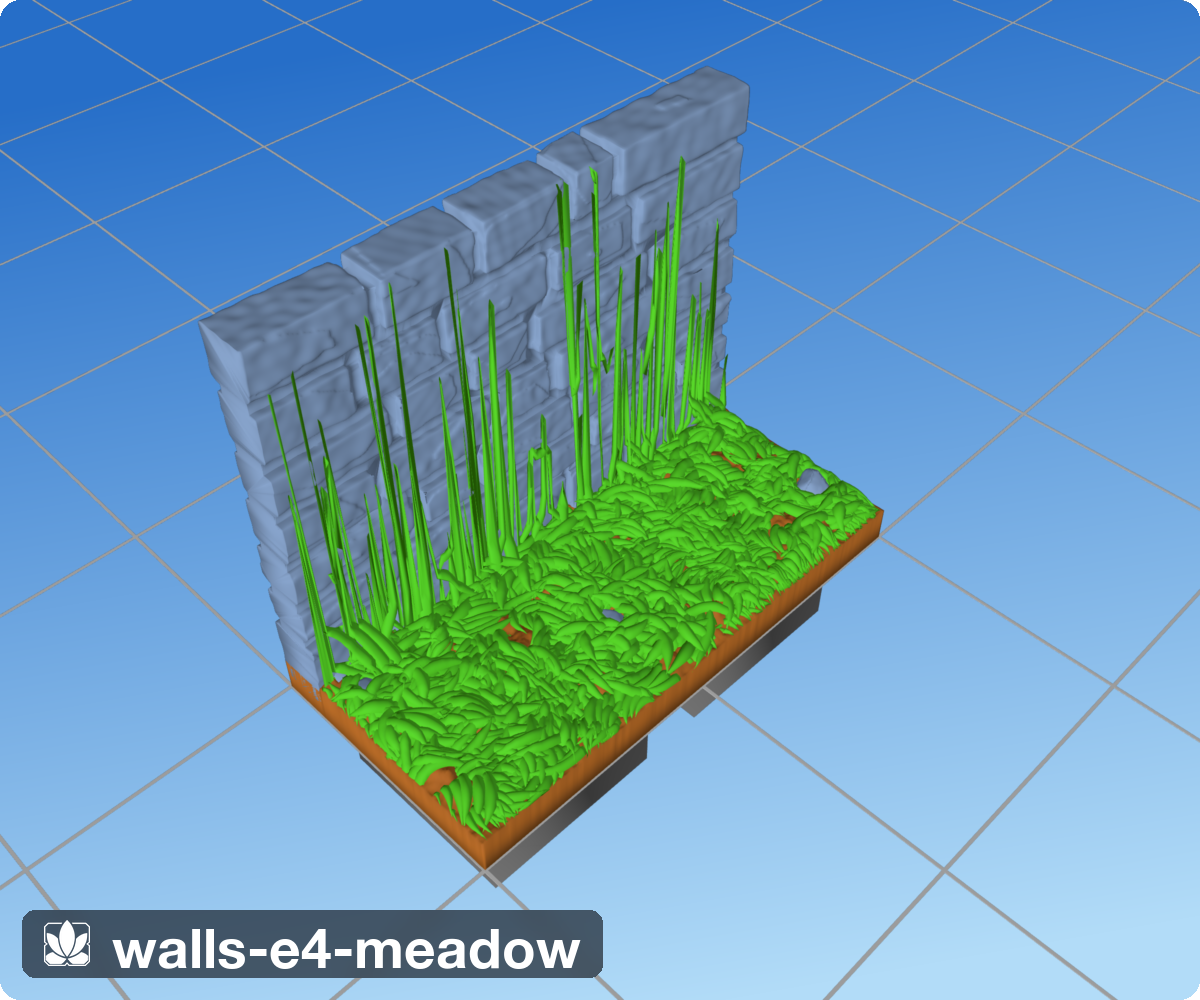
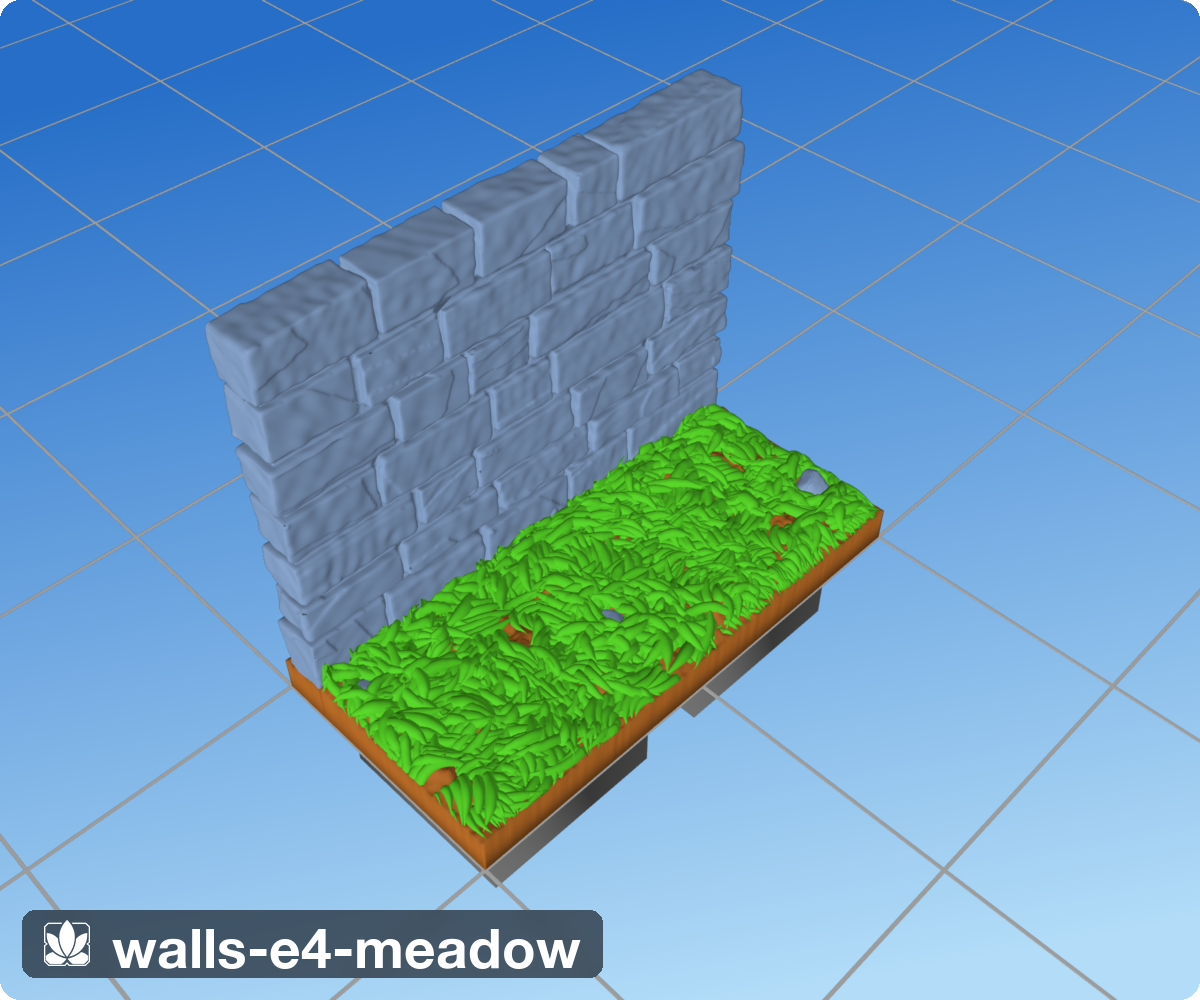
Walls round 2: Shawn's five fixes + texture presets
- Ends always textured: flush plane-cut machinery deleted; wall ends
  show block ends with the mortar core inset, at tile seams too (butt
  join = sculpted ends butting, like the commercial pieces)
- Grass wall cap: _CLIFF_CLAMP_MM in thatch.py — solid support taller
  than 4mm above substrate is cliff-class; drape surface, lift floor,
  and vegetation rebase all see at most the clamp, so blades lean a few
  mm up the wall base instead of shooting up the face (was ~45mm spikes)
- Nearly-touching bricks: joint_mm 1.2 -> 0.45
- Mid-face plateau killed by construction: face-centre hull points
  pulled in ~0.5x chip (full-extent centres made a proud plateau in the
  middle of every face/top -- Shawn's circled artifact)
- Texture presets: chipped / worn / hewn / dressed on CutStoneWall
  (texture=...), plus walls-e5-textures comparison scene and labeled
  render docs/walls/renders/walls-texture-options.png

Claude-Session: https://claude.ai/code/session_01N52X1qVoRMnzi1jxnvUHEL

diff --git a/src/dharmatiles/walls/masonry.py b/src/dharmatiles/walls/masonry.py
@@ -42,13 +42,23 @@ _CHAMFER_FRAC     = 1.0    # bottom chamfer depth = reveal × this (R10: the
                            # block's proud lip never overhangs the joint below)
 _REMESH_SIGMA     = 0.7    # blur-remesh sigma: below the stones' 0.9 "fresh"
                            # setting so chip facets and chamfers stay crisp
-_RELIEF_WL_MM     = (1.5, 6.0)   # broadband relief wavelengths (log-uniform)
-_RELIEF_WAVES     = 24
+_RELIEF_WAVES     = 24     # broadband relief wave count; wavelengths come
+                           # from the texture preset
 _MIN_BAY_FRAC     = 0.45   # bays shorter than this × bay_min are merged away
 _SEAT_PERCENTILE  = 80.0   # seat height over the footprint (stones convention)
-_FLUSH_OVERSHOOT_MM = 0.8  # tile-boundary ends overshoot by this and are
-                           # plane-cut flush at the seam (butt-join, R8)
-_BOUNDARY_EPS_MM  = 0.05   # wall end counts as on-boundary within this
+
+# Texture presets: the surface character of the blocks.  Everything else
+# (layout, joints, core) is family-independent.
+_TEXTURES = {
+    'chipped': dict(chip_mm=0.55, roundover_mm=0.22, relief_mm=0.07,
+                    relief_wl=(1.5, 6.0)),   # Hirst-m50 chipped cut stone
+    'worn':    dict(chip_mm=0.30, roundover_mm=0.60, relief_mm=0.10,
+                    relief_wl=(2.5, 8.0)),   # soft weathered (m24 cryptstone)
+    'hewn':    dict(chip_mm=0.80, roundover_mm=0.15, relief_mm=0.16,
+                    relief_wl=(0.8, 3.0)),   # rough-hewn all-over (m40)
+    'dressed': dict(chip_mm=0.15, roundover_mm=0.12, relief_mm=0.03,
+                    relief_wl=(2.0, 7.0)),   # near-smooth ashlar, crisp arris
+}
 
 
 # ── Layout ────────────────────────────────────────────────────────────────────
@@ -94,19 +104,6 @@ def _segments(spine_mm: list[tuple[float, float]]) -> list[_Seg]:
     return segs
 
 
-def _end_on_tile_boundary(p: np.ndarray, out_dir: np.ndarray,
-                          surface) -> bool:
-    """True when the wall end plane at ``p`` (outward normal ``out_dir``)
-    coincides with a tile boundary plane — the seam of an adjacent tile."""
-    for axis, extent in ((0, surface.tile_w), (1, surface.tile_h)):
-        if abs(abs(out_dir[axis]) - 1.0) > 1e-3:
-            continue
-        if (abs(p[axis]) < _BOUNDARY_EPS_MM
-                or abs(p[axis] - extent) < _BOUNDARY_EPS_MM):
-            return True
-    return False
-
-
 def _course_heights(height_mm: float, lo: float, hi: float,
                     rng: np.random.Generator) -> np.ndarray:
     """Varied course heights that sum EXACTLY to height_mm (cap lands at H)."""
@@ -142,14 +139,13 @@ def _bay_cuts(t0: float, t1: float, lo: float, hi: float,
 
 def _layout(segs: list[_Seg], thickness_mm: float, height_mm: float,
             course_mm: tuple[float, float], bay_mm: tuple[float, float],
-            min_bond_mm: float, rng: np.random.Generator,
-            flush_start: bool = False, flush_end: bool = False,
-            ) -> list[_Cell]:
+            min_bond_mm: float, rng: np.random.Generator) -> list[_Cell]:
     """Courses × bays × quoin alternation → block cells (R5, R7).
 
-    ``flush_start`` / ``flush_end``: the wall end lies on a tile
-    boundary — blocks there overshoot and are plane-cut flush (R8)
-    instead of getting a textured end face.
+    Wall ends are always textured ('face'): visible block ends with the
+    mortar core inset behind them — including at tile boundaries, where
+    two wall tiles butt with their sculpted ends (R8, Shawn's round-2
+    call: "I should be able to see the ends of the bricks").
     """
     T = thickness_mm
     heights = _course_heights(height_mm, *course_mm, rng)
@@ -175,18 +171,12 @@ def _layout(segs: list[_Seg], thickness_mm: float, height_mm: float,
             prev_cuts[k] = cuts
             edges = np.concatenate([[t0], cuts, [t1]])
             for b, (ta, tb) in enumerate(zip(edges[:-1], edges[1:])):
-                if ta > t0 or (k > 0 and not owns_start):
-                    end0 = 'joint'
-                else:
-                    end0 = 'flush' if (k == 0 and flush_start) else 'face'
-                if tb < t1 or (k < n_joints and not owns_end):
-                    end1 = 'joint'
-                else:
-                    end1 = ('flush' if (k == n_joints and flush_end)
-                            else 'face')
                 cells.append(_Cell(
                     seg=k, t0=float(ta), t1=float(tb),
-                    end0=end0, end1=end1,
+                    end0='joint' if ta > t0 or (k > 0 and not owns_start)
+                         else 'face',
+                    end1='joint' if tb < t1 or (k < n_joints and not owns_end)
+                         else 'face',
                     z0=float(z0), z1=float(z1),
                     is_top=is_top, is_bottom=is_bottom,
                     key=(c, k, b),
@@ -198,6 +188,7 @@ def _layout(segs: list[_Seg], thickness_mm: float, height_mm: float,
 
 def _block_mesh(lx: float, ly: float, lz: float, chamfer: float,
                 chip_mm: float, roundover_mm: float, relief_mm: float,
+                relief_wl: tuple[float, float],
                 is_top: bool, rng: np.random.Generator) -> trimesh.Trimesh:
     """One block in local frame [0,lx]×[0,ly]×[0,lz] (x along run, y = depth).
 
@@ -222,11 +213,20 @@ def _block_mesh(lx: float, ly: float, lz: float, chamfer: float,
     _ring(rng.uniform(0.6, 1.0) * ch, 0.0, chip_mm)             # chamfer ring
     if ch > 0.0:
         _ring(0.0, ch, 0.4 * chip_mm)                           # inset base
-    # Full-extent face centres keep each face plane out at the cell wall:
-    # chipped corners then read as facets INSIDE the face, not shrinkage.
-    pts.extend([[lx / 2.0, ly / 2.0, lz],
-                [lx / 2.0, 0.0, lz / 2.0], [lx / 2.0, ly, lz / 2.0],
-                [0.0, ly / 2.0, lz / 2.0], [lx, ly / 2.0, lz / 2.0]])
+    # Face centres are pulled IN by about half the corner-chip budget.
+    # Full-extent centres left a proud hull plateau in the middle of
+    # every face and top ("a shape in the middle of the brick", Shawn's
+    # round-2 find); pulled level with the average chipped corner, the
+    # centre is usually swallowed by the hull and the face reads as a
+    # calm plane with chipped arrises.
+    fc = rng.uniform(0.4, 0.8, 5) * chip_mm
+    top_c = (rng.uniform(0.05, 0.15) if is_top
+             else rng.uniform(0.3, 0.6) * chip_mm)
+    pts.extend([[lx / 2.0, ly / 2.0, lz - top_c],
+                [lx / 2.0, fc[0], lz / 2.0],
+                [lx / 2.0, ly - fc[1], lz / 2.0],
+                [fc[2], ly / 2.0, lz / 2.0],
+                [lx - fc[3], ly / 2.0, lz / 2.0]])
 
     hull = trimesh.convex.convex_hull(np.asarray(pts))
     v, f = np.asarray(hull.vertices), np.asarray(hull.faces)
@@ -241,7 +241,7 @@ def _block_mesh(lx: float, ly: float, lz: float, chamfer: float,
         body = remeshed
         if relief_mm > 0.0:
             disp = relief_mm * _relief_field(
-                body.vertices, rng, _RELIEF_WAVES, *_RELIEF_WL_MM)
+                body.vertices, rng, _RELIEF_WAVES, *relief_wl)
             body = trimesh.Trimesh(
                 vertices=(body.vertices
                           + np.asarray(body.vertex_normals) * disp[:, None]),
@@ -268,28 +268,39 @@ class CutStoneWall:
                  thickness_mm: float = 7.0,
                  height_mm:    float = 49.7,
                  seed:         int   = 0,
+                 texture:      str   = 'chipped',
                  course_mm:    tuple[float, float] = (5.5, 8.5),
                  bay_mm:       tuple[float, float] = (11.0, 20.0),
-                 joint_mm:     float = 1.2,
+                 joint_mm:     float = 0.45,
                  reveal_mm:    float = 1.3,
-                 chip_mm:      float = 0.55,
-                 roundover_mm: float = 0.22,
-                 relief_mm:    float = 0.07,
+                 chip_mm:      float | None = None,
+                 roundover_mm: float | None = None,
+                 relief_mm:    float | None = None,
+                 relief_wl:    tuple[float, float] | None = None,
                  min_bond_mm:  float = 3.0,
                  embed_mm:     float = 2.5):
         if len(spine) < 2:
             raise ValueError('wall spine needs at least two points')
+        if texture not in _TEXTURES:
+            raise ValueError(f'unknown wall texture {texture!r}; '
+                             f'options: {sorted(_TEXTURES)}')
+        preset = _TEXTURES[texture]
         self.spine        = [tuple(map(float, p)) for p in spine]
         self.thickness_mm = thickness_mm
         self.height_mm    = height_mm
         self.seed         = seed
+        self.texture      = texture
         self.course_mm    = course_mm
         self.bay_mm       = bay_mm
         self.joint_mm     = joint_mm
         self.reveal_mm    = reveal_mm
-        self.chip_mm      = chip_mm
-        self.roundover_mm = roundover_mm
-        self.relief_mm    = relief_mm
+        self.chip_mm      = preset['chip_mm'] if chip_mm is None else chip_mm
+        self.roundover_mm = (preset['roundover_mm'] if roundover_mm is None
+                             else roundover_mm)
+        self.relief_mm    = (preset['relief_mm'] if relief_mm is None
+                             else relief_mm)
+        self.relief_wl    = (preset['relief_wl'] if relief_wl is None
+                             else relief_wl)
         self.min_bond_mm  = min_bond_mm
         self.embed_mm     = embed_mm
 
@@ -302,14 +313,10 @@ class CutStoneWall:
         T, H = self.thickness_mm, self.height_mm
 
         seat_z = self._seat_z(scene, segs)
-        f0 = _end_on_tile_boundary(segs[0].a, -segs[0].d, surface)
-        f1 = _end_on_tile_boundary(segs[-1].a + segs[-1].d * segs[-1].L,
-                                   segs[-1].d, surface)
         cells  = _layout(segs, T, H, self.course_mm, self.bay_mm,
-                         self.min_bond_mm, rng,
-                         flush_start=f0, flush_end=f1)
+                         self.min_bond_mm, rng)
 
-        parts = self._core_boxes(segs, seat_z, f0, f1)
+        parts = self._core_boxes(segs, seat_z)
         for cell in cells:
             parts.append(self._place_block(cell, segs, seat_z, rng))
 
@@ -325,7 +332,6 @@ class CutStoneWall:
 
     # ── pieces ───────────────────────────────────────────────────────────────
     def _core_boxes(self, segs: list[_Seg], seat_z: float,
-                    flush_start: bool, flush_end: bool,
                     ) -> list[trimesh.Trimesh]:
         """Recessed core: full footprint inset by reveal from every visible
         face (both wall faces, free ends, corner outer planes, and the
@@ -352,14 +358,8 @@ class CutStoneWall:
         # coincides with this segment's t=0 / t=L plane, so the inset
         # recesses the core from that face too; the two segment cores
         # overlap inside the corner cell, keeping the union connected.
-        # At a tile-boundary end the core overshoots instead — the seam
-        # cut leaves a full flat cross-section, no recessed ring (R8).
-        last = len(segs) - 1
-        for k, seg in enumerate(segs):
-            c0 = -_FLUSH_OVERSHOOT_MM if (k == 0 and flush_start) else rv
-            c1 = (seg.L + _FLUSH_OVERSHOOT_MM
-                  if (k == last and flush_end) else seg.L - rv)
-            boxes.append(_box(seg, c0, c1, rv, T - rv))
+        for seg in segs:
+            boxes.append(_box(seg, rv, seg.L - rv, rv, T - rv))
         return boxes
 
     def _place_block(self, cell: _Cell, segs: list[_Seg], seat_z: float,
@@ -367,15 +367,10 @@ class CutStoneWall:
         seg = segs[cell.seg]
         j2  = self.joint_mm / 2.0
 
-        def _side(t: float, end: str, sgn: float) -> float:
-            if end == 'joint':
-                return t + sgn * j2
-            if end == 'flush':
-                return t - sgn * _FLUSH_OVERSHOOT_MM
-            return t + sgn * rng.uniform(0.0, _FACE_RECESS_MM)
-
-        x0 = _side(cell.t0, cell.end0, +1.0)
-        x1 = _side(cell.t1, cell.end1, -1.0)
+        x0 = cell.t0 + (j2 if cell.end0 == 'joint'
+                        else rng.uniform(0.0, _FACE_RECESS_MM))
+        x1 = cell.t1 - (j2 if cell.end1 == 'joint'
+                        else rng.uniform(0.0, _FACE_RECESS_MM))
         y0 = rng.uniform(0.0, _FACE_RECESS_MM)
         y1 = self.thickness_mm - rng.uniform(0.0, _FACE_RECESS_MM)
         z0 = seat_z + (cell.z0 + j2 if not cell.is_bottom
@@ -387,7 +382,7 @@ class CutStoneWall:
             (self.seed * 1_000_003 + hash(cell.key)) & 0x7FFFFFFF)
         body = _block_mesh(x1 - x0, y1 - y0, z1 - z0, chamfer,
                            self.chip_mm, self.roundover_mm, self.relief_mm,
-                           cell.is_top, brng)
+                           self.relief_wl, cell.is_top, brng)
 
         ctr = np.array([(x1 - x0) / 2.0, (y1 - y0) / 2.0, (z1 - z0) / 2.0])
         yaw = np.radians(brng.uniform(-_YAW_MAX_DEG, _YAW_MAX_DEG))

diff --git a/src/dharmatiles/grass/thatch.py b/src/dharmatiles/grass/thatch.py
@@ -62,6 +62,12 @@ _ROCK_TIP_STEPS    = 2      # only the blade TIP may enter a footprint: at most
 _ROCK_TIP_RISE_MM  = 0.9    # tips may only enter footprint cells this low —
                             # steep flank cells would sink blade edges >1 mm in
 _ROCK_STANDOFF_MM  = 0.2    # extra clearance riding the stone surface
+_CLIFF_CLAMP_MM    = 4.0    # solid support taller than this above the
+                            # substrate is CLIFF-class (a masonry wall, not a
+                            # stone): blades interact with at most the first
+                            # few mm — without the clamp the footprint fringe
+                            # becomes a 50 mm drape target / lift floor and
+                            # blades shoot up the wall face (walls-e4 find)
 
 
 class ThatchGrass:
@@ -164,7 +170,13 @@ class ThatchGrass:
         support_eff = scene.terrain_z.copy()
         if dist_mm is not None:
             near_obs = dist_mm < 1.0
-            support_eff[near_obs] = scene.terrain_support_z[near_obs]
+            # Cliff clamp: the classification thresholds below are all
+            # ≤ _ROCK_CLIMB_MM, so clamping changes nothing for stones —
+            # it only stops wall-height support from bleeding into the
+            # drape surface and the lift floor through the fringe.
+            support_eff[near_obs] = np.minimum(
+                scene.terrain_support_z[near_obs],
+                scene.terrain_z[near_obs] + _CLIFF_CLAMP_MM)
         # Rebase vegetation support on solid geometry (earlier layers may
         # have synced the phantom falloff into it); blades stamp their own
         # tops back in during the build.

diff --git a/docs/walls/walls-e5-textures.tile.py b/docs/walls/walls-e5-textures.tile.py
@@ -1,0 +1,33 @@
+# walls-e5-textures.tile.py — walls campaign: surface-texture options.
+#
+# Four parallel wall runs on a 2x2, one per texture preset, front to
+# back: chipped (m50 cut stone), worn (m24 cryptstone), hewn (m40
+# rough), dressed (near-ashlar).  Runs sit in the tile interior, so
+# both ends of every wall show textured brick ends with inset mortar.
+# Lower height (32 mm) so the back rows stay visible in one render.
+
+from dharmatiles.spec import Tile, Region, FloodFill, SurfaceConfig
+from dharmatiles.layers import SoilCarpet
+from dharmatiles.walls import CutStoneWall
+
+_H = 32.0
+_X0, _X1 = 1.85, 0.15          # walk -x so the body (left side) faces south
+
+
+def _wall(y: float, texture: str, seed: int) -> CutStoneWall:
+    return CutStoneWall(spine=[(_X0, y), (_X1, y)], height_mm=_H,
+                        texture=texture, seed=seed)
+
+
+tile = Tile(
+    surface=SurfaceConfig(seed=31, cols=2, rows=2),
+    areas=[
+        Region(id='ground', selector=FloodFill(0.5, 0.05), layers=[
+            SoilCarpet(),
+            _wall(0.42, 'chipped', 41),
+            _wall(0.88, 'worn',    42),
+            _wall(1.34, 'hewn',    43),
+            _wall(1.80, 'dressed', 44),
+        ]),
+    ],
+)

diff --git a/docs/design/walls-coursed-masonry.md b/docs/design/walls-coursed-masonry.md
@@ -48,7 +48,7 @@ rewrite.
 | R5 | Courses horizontal, grid broken | Layout solver: course heights sampled from a range (top course absorbs the remainder to land exactly at H); bay (block-length) cuts sampled per course with a **minimum bond offset** from the course below (rejection on near-alignment); per-block jitter in reveal (±~0.4 mm), tiny yaw, corner chips; occasional spall-bitten block |
 | R6 | Flat cap textured as block tops | The cap is the same mechanism turned up: core top at `H − reveal`, block tops at `H`, flattened (crown-flat) — a flat plane of visible block tops separated by recessed joints, by construction. No soil on the wall |
 | R7 | Corners interlock (quoins) | At each corner the two runs alternate per course: odd courses run A through the corner cell and run B butts into it, even courses swap. The alternating end-grain is the quoin read at every corner in every reference |
-| R8 | Butt-join at tile seams | Layout is computed in tile coordinates; any block or core crossing the tile boundary is plane-cut flush at the edge (clean vertical cut — Shawn's answer 4 says that is correct) |
+| R8 | Butt-join at tile seams | Wall ends are ALWAYS textured — visible block ends with the mortar core inset behind them, at tile boundaries too; two wall tiles butt with their sculpted ends, like the commercial pieces do. (Round-2 revision: E3's flush plane-cut ends were built first; Shawn: "I should be able to see the ends of the bricks, and the mortar should be inset there as well.") A safety plane-cut still trims anything poking past the tile bounds |
 | R9 | Paint pipeline works (wash + 2 drybrush tones) | Joint reveal ≥ ~0.8 mm deep and ~0.6–1.2 mm wide holds the dark base wash; block micro-relief amplitude tuned so two drybrush tones catch (acceptance judged on renders + the Hirst painting criteria) |
 | R10 | Supportless FDM | Vertical faces are FDM-friendly; the only overhang is each block's bottom lip protruding `reveal` over the joint below → every block bottom gets a ≥45° chamfer to the core plane, killing the overhang by construction. Cap is flat-up. Same two-tier target/strict audit idea as trees if renders show violations |
 | R11 | Wall seats into terrain; grass steers around | Base course extends ~2 mm below terrain (embed); soil skirt laps the base exactly like stones (smoothstep annulus, upward-only); footprint stamped into `terrain_support_z` + `obstacle_mask` before Grass runs (existing layer-ordering contract) |
@@ -175,6 +175,8 @@ unioned surface — the DB set-13 signature).
 | E2 | course (5.5,8.5), bay long, chip 0.55, roundover 0.22, relief 0.07 | Very close to RR-095; exposed ragged tile-seam ends (butt-join defect) |
 | E3 | `flush` end type: boundary ends overshoot + plane-cut at the seam; core overshoots too (no recessed ring on the mating face) | Seam flush ✓; front joints too faint — coplanar faces melt together at glancing light |
 | E4 | joint 1.2, reveal 1.3, face-recess 0.6, per-block tilt ±0.7° | Joints read; each brick takes its own tone; corner quoins alternate correctly; shipped for judgment |
+| — | **Shawn round-2 verdict**: "incredible… beautiful" + five fixes | (2) ends textured, not flush-cut; (3) grass must not run up the wall face; (4) thinner mortar, bricks nearly touching; (5) raised shapes mid-face/top = hull plateau from full-extent face-centre points; (6) explore texture options |
+| E5 | Ends always 'face' (flush machinery deleted); joint 0.45; face centres pulled in ~0.5×chip (plateau gone by construction); grass `_CLIFF_CLAMP_MM` in thatch.py (support taller than 4 mm above substrate is cliff-class — drape/lift see at most the clamp); texture presets `chipped/worn/hewn/dressed` + walls-e5-textures comparison scene | pending Shawn |
 
 Implementation notes: blocks finish through `_blur_remesh` (σ 0.7) —
 `subdivide_to_size` leaves T-junctions that break the manifold union.
